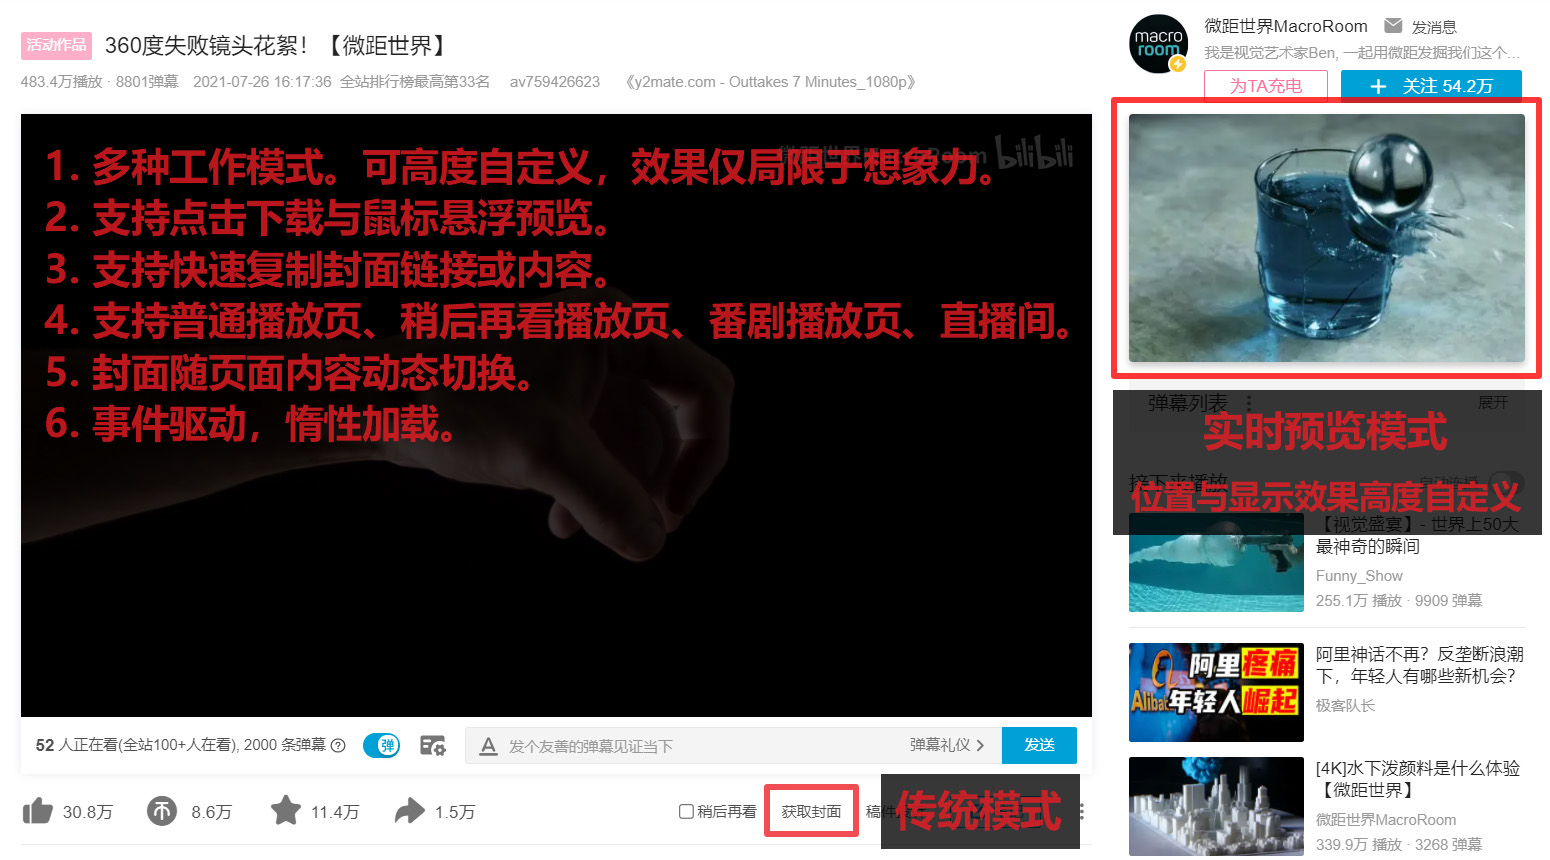
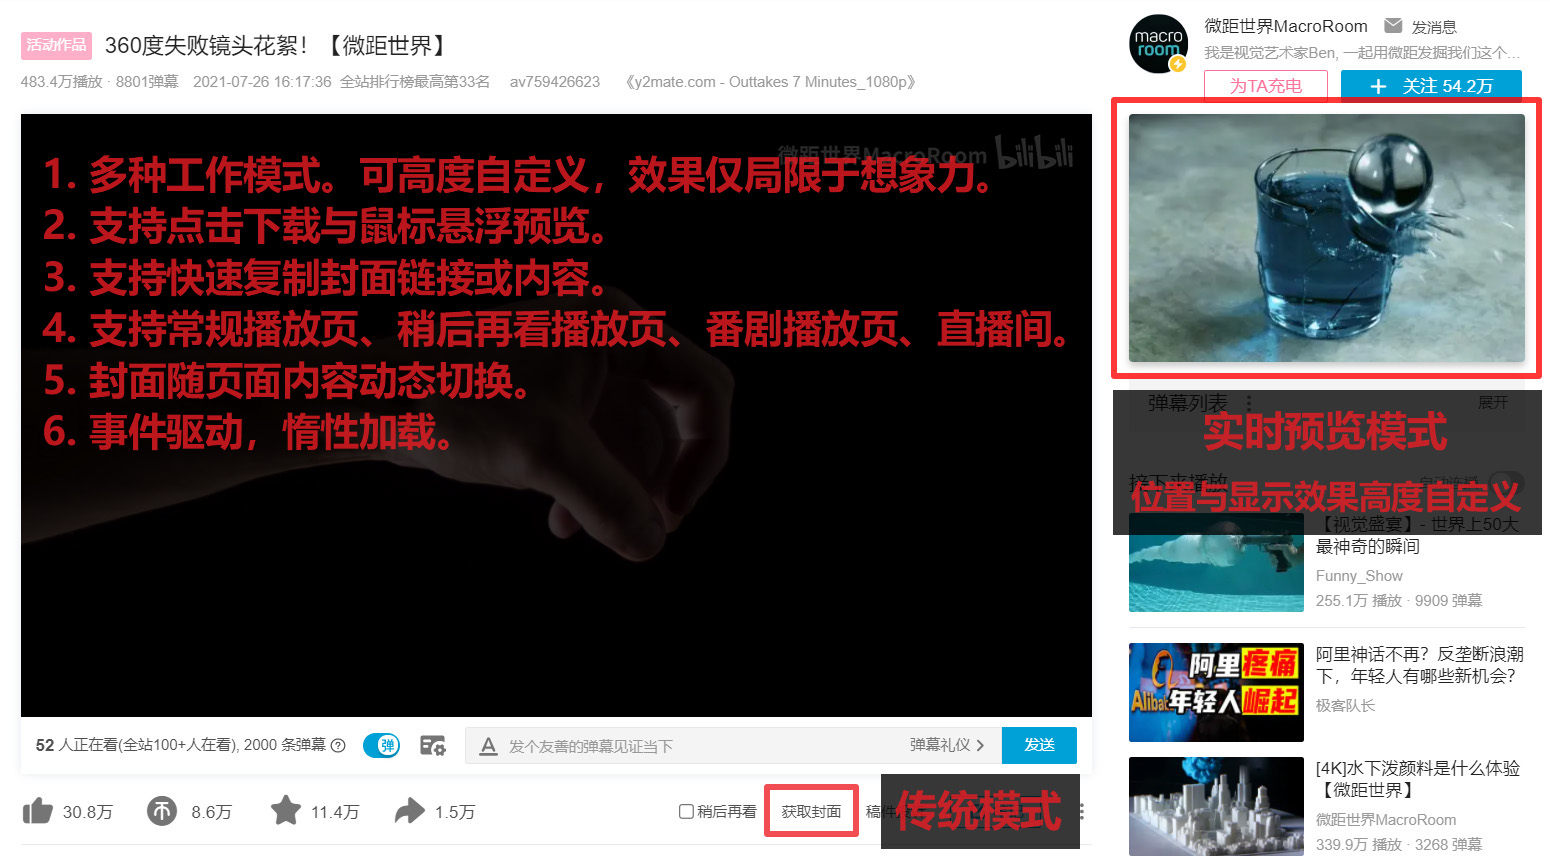
B站封面获取 5.3.2.20210816
* 脚本：修复将鼠标移动至按钮/实时预览上后快速点击鼠标左键/中键时，相关操作有概率不会被响应的问题。
* 脚本：优化封面获取错误时的处理与显示。
* UI：优化文本。

Changed region(s): [[0.031, 0.1512, 0.6813, 0.5442]]

diff --git a/script/BilibiliCover/BilibiliCover.user.js b/script/BilibiliCover/BilibiliCover.user.js
@@ -1,6 +1,6 @@
 // ==UserScript==
 // @name            B站封面获取
-// @version         5.3.1.20210815
+// @version         5.3.2.20210816
 // @namespace       laster2800
 // @author          Laster2800
 // @description     获取B站各播放页及直播间封面，支持手动及实时预览等多种模式，支持点击下载、封面预览、快速复制，可高度自定义
@@ -61,7 +61,7 @@
       customModePosition: { default: 'beforebegin' },
       customModeQuality: { default: '480w_90p' }, // 320w 会有肉眼可见的质量损失
       customModeStyle: { default: defaultRealtimeStyle },
-      download: { default: true, name: '全局：点击下载', checkItem: true, needNotReload: true },
+      download: { default: true, name: '全局：点击下载', checkItem: true },
       preview: { default: true, name: '视频/番剧：封面预览', checkItem: true },
       previewLive: { default: true, name: '直播间：封面预览', checkItem: true },
       bangumiSeries: { default: false, name: '番剧：获取系列封面而非分集封面', checkItem: true },
@@ -302,7 +302,7 @@
           <div style="line-height:1.6em">
             <p style="margin-bottom:0.5em">请认真阅读以下说明：</p>
             <p>1. 应填入 CSS 选择器，脚本会以此选择定位元素，将封面元素「#${gm.id}-realtime-cover」插入到其附近（相对位置稍后设置）。</p>
-            <p>2. 确保该选择器在「普通播放页」「稍后再看播放页」「番剧播放页」中均有对应元素，否则脚本在对应页面无法工作。PS：逗号「,」以 OR 规则拼接多个选择器。</p>
+            <p>2. 确保该选择器在「常规播放页」「稍后再看播放页」「番剧播放页」中均有对应元素，否则脚本在对应页面无法工作。PS：逗号「,」以 OR 规则拼接多个选择器。</p>
             <p>3. 不要选择广告为定位元素，否则封面元素可能会插入失败或被误杀。</p>
             <p>4. 不要选择时有时无的元素，或第三方插入的元素作为定位元素，否则封面元素可能会插入失败。</p>
             <p>5. 在 A 时间点插入的图片元素，有可能被 B 时间点插入的新元素 C 挤到目标以外的位置。只要将定位元素选择为 C 再更改相对位置即可解决问题。</p>
@@ -476,7 +476,6 @@
             // 此处必须用 mousedown，否则无法与动态获取封面的代码达成正确的联动
             target.addEventListener('mousedown', function(e) {
               if (target.loaded && gm.config.download && e.button == 0) {
-                e.preventDefault()
                 _self.download(this.href, document.title)
               }
             })
@@ -498,7 +497,6 @@
           if (!target._copyLinkEvent) {
             target.addEventListener('mousedown', async function(e) {
               if (target.loaded && e.button == 2) {
-                e.preventDefault()
                 let ctrl = e.ctrlKey
                 if (gm.config.switchQuickCopy) {
                   ctrl = !ctrl
@@ -546,10 +544,8 @@
          */
         addErrorEvent(target) {
           if (!target._errorEvent) {
-            target.addEventListener('mousedown', function(e) {
-              if (target.loaded) return
-              if (e.button == 0 || e.button == 1) {
-                e.preventDefault()
+            target.addEventListener('mousedown', function() {
+              if (!target.loaded) {
                 api.message.create(gm.const.errorMsg)
               }
             })
@@ -560,7 +556,7 @@
         /**
          * 设置封面
          * @param {HTMLElement} target 封面元素
-         * @param {HTMLElement} preview 预览元素
+         * @param {HTMLElement} preview 预览元素，无预览元素时传空值即可
          * @param {string} url 封面 URL
          */
         setCover(target, preview, url) {
@@ -580,7 +576,6 @@
               }
             }
             if (preview) {
-              preview._needUpdate = true
               preview._src = url
             }
           } else {
@@ -614,12 +609,19 @@
           target.addEventListener('mouseenter', api.tool.debounce(async function() {
             this.mouseOver = true
             if (gm.runtime.preview) {
-              if (preview._needUpdate) {
-                await new Promise(resolve => {
-                  preview.addEventListener('load', resolve, { once: true })
-                  preview.src = preview._src
-                  preview._needUpdate = false
-                })
+              if (preview._src) {
+                try {
+                  await new Promise((resolve, reject) => {
+                    preview.addEventListener('load', resolve, { once: true })
+                    preview.addEventListener('error', reject, { once: true })
+                    preview.src = preview._src
+                    preview._src = null
+                  })
+                } catch (e) {
+                  _self.setCover(target, preview, false)
+                  api.logger.error(e)
+                  return
+                }
                 if (!this.mouseOver) return
               }
               preview.src && fade(true)
@@ -631,6 +633,18 @@
               !preview.mouseOver && fade(false)
             }
           }, 200))
+
+          // 在链接上左键打开链接，和中键在新标签页打开链接，都要求：
+          // 鼠标点击与松开时都在链接元素上，也就是说链接元素上不能有覆盖物，需让 preview 回避一下
+          // 不做这个处理，将鼠标快速移动至按钮/实时预览上点击时，操作有概率会被吞掉
+          target.addEventListener('mousedown', function() {
+            preview.style.pointerEvents = 'none'
+          })
+          target.addEventListener('mouseup', function() {
+            setTimeout(() => {
+              preview.style.pointerEvents = ''
+            }, 10)
+          })
 
           let startPos = null // 鼠标进入预览时的初始坐标
           preview.onmouseenter = function() {
@@ -711,11 +725,17 @@
          * @returns {Promise<HTMLElement>} 实时封面元素
          */
         async createRealtimeCover() {
+          const _self = this
           const ref = await api.wait.waitQuerySelector(gm.runtime.realtimeSelector)
           const cover = ref.insertAdjacentElement(gm.runtime.realtimePosition, document.createElement('a'))
           cover.id = `${gm.id}-realtime-cover`
           cover.img = cover.appendChild(document.createElement('img'))
-          cover.img.addEventListener('error', function() {
+          cover.error = cover.appendChild(document.createElement('div'))
+          cover.error.textContent = '封面获取失败'
+          cover.img.addEventListener('load', function() {
+            cover.error.style.display = ''
+          })
+          cover.img.addEventListener('error', function(e) {
             if (this.lossless && this.src != this.lossless) {
               if (gm.config.mode == gm.const.customMode) {
                 api.message.create(`缩略图获取失败，使用原图进行替换！请检查「${gm.runtime.realtimeQuality}」是否为有效的图片质量参数。可能是正常现象，因为年代久远的视频封面有可能不支持缩略图。`, { ms: 4000 })
@@ -725,6 +745,10 @@
               api.logger.warn(['缩略图获取失败，使用原图进行替换！', this.src, this.lossless])
               this.src = this.lossless
               this.lossless = null
+            } else {
+              _self.setCover(cover, null, false) // preview 会自动处理 error，不必理会
+              cover.error.style.display = 'block'
+              api.logger.error(e)
             }
           })
           if (gm.runtime.realtimeStyle != 'disable') {
@@ -879,12 +903,10 @@
               const vid = _self.method.getVid()
               if (cover._cover_id == vid.id) return false
               // 在异步等待前拦截，避免逻辑倒置
-              event.preventDefault()
               event.stopPropagation()
               const url = await getCover(vid)
               _self.method.setCover(cover, preview, url)
             } catch (e) {
-              event.preventDefault()
               event.stopPropagation()
               _self.method.setCover(cover, preview, false)
               api.logger.error(e)
@@ -965,7 +987,6 @@
               _self.method.setCover(cover, preview, false)
               api.logger.error(e)
             }
-            event.preventDefault()
             event.stopPropagation()
             return true
           })
@@ -1046,12 +1067,10 @@
         try {
           if (cover.loaded) return false
           // 在异步等待前拦截，避免逻辑倒置
-          event.preventDefault()
           event.stopPropagation()
           const url = await getCover(win)
           _self.method.setCover(cover, preview, url)
         } catch (e) {
-          event.preventDefault()
           event.stopPropagation()
           _self.method.setCover(cover, preview, false)
           api.logger.error(e)
@@ -1106,6 +1125,14 @@
           transition: opacity ${gm.const.fadeTime}ms ease-in-out;
           cursor: pointer;
           box-shadow: #000000AA 0px 3px 6px;
+        }
+
+        #${gmId}-realtime-cover div {
+          color: gray;
+          padding: 5px;
+          font-size: 18px;
+          text-align: center;
+          display: none;
         }
       `, doc)
     }

diff --git a/script/BilibiliCover/changelog.md b/script/BilibiliCover/changelog.md
@@ -12,7 +12,10 @@
 2. 功能实现：在预览图上禁用右键菜单。有了快速复制功能后，右键菜单作用不大，但也不排除对此有需求的用户（如使用浏览器或第三方在右键菜单针对图片提供的功能）。
 3. 工作模式：实时预览模式下，在不禁用右键菜单时，右键点击时会加载原图，以便浏览器打开一个针对原图的右键菜单（而非像之前那样打开一个针对包含原图链接的右键菜单）。
 4. 工作模式：优化实时预览模式缩略图获取失败时的处理。
-5. 脚本：修复脚本提示在懒加载完成时才加载的问题。
+5. 脚本：修复将鼠标移动至按钮/实时预览上后快速点击鼠标左键/中键时，相关操作有概率不会被响应的问题。
+6. 脚本：优化封面获取错误时的处理与显示。
+7. 脚本：修复脚本提示在懒加载完成时才加载的问题。
+8. UI：优化文本。
 
 > 快速复制功能其实是「无法将右键菜单弹出的时间点延后至封面获取成功后」的妥协产物，目的是为了解决在特定设置下在某些页面中第一次激活的右键菜单获取不到正确链接信息的问题——不过实现出来却发现意外地好用。
 >
